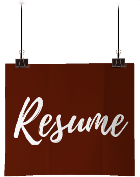
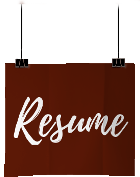
changed the posters and cleaned them

diff --git a/templates/portfolio.html b/templates/portfolio.html
@@ -74,9 +74,10 @@
                 </div>
 
                 </div>
+                <br />
                 <div class="row">
                     <div class="col-md-10 col-md-offset-1">
-                        <h1 class="fontheaders">Freel@nce</h1>
+                        <h1 class="fontheaders">Freel<a href="/contact" target="_blank">@</a>nce</h1>
                             <hr class="small">
                     </div>
                 </div>
@@ -85,7 +86,9 @@
                         <div class="portfolio-item">
                             <img class="img-portfolio img-responsive" src="static/img/divezone.png">
                             <div class="overlay" >
-                            <p class="portfolio-text">Dive Shop Website-Redesign</p>
+                            <p class="portfolio-text">Dive Shop <br />Website Redesign
+                                <h4 class="portfolio-glyph">y</h4>
+                            </p>
                             </div>
                         </div>
                     </div>
@@ -93,7 +96,9 @@
                         <div class="portfolio-item">
                             <img class="img-portfolio img-responsive" src="static/img/kcc.png">
                             <div class="overlay">
-                            <p class="maintext">E-Commerce Craft Site</p>
+                                <p class="portfolio-text">E-Commerce Crafting Site <br />
+                                    <h4 class="portfolio-glyph">y</h4>
+                                </p>
                             </div>
                         </div>
                     </div>

diff --git a/templates/about.html b/templates/about.html
@@ -44,10 +44,13 @@
                     <h1 class="fontheaders" id="aboutme">A Bit About Who I Am</h1>
                 <h1 class="glyph">y</h1>
                     <br />
+                    <div >
+
                     <p class="maintext"> Hi, I'm Kristine, a junior full-stack developer living in South East Houston. I was born and raised in Boston, MA, and I became an honorary Texan 6 years ago, according to the coffee mug I received. </p>
                     <p class="maintext"> Between programming and adulting, you will usually find me in my psuedo craft room (our dining room) making gifts for people. To me, crafting is a lot like programming; it can be a lot of stress but the end result and client satifsaction are what make it worthwhile. If I have any time left, you might find me out running (I try), reading, having wine with friends or even scuba diving. </p>
                     <p class="maintext">I'm a glass-half-full kind of gal, always looking at the positive side in life. Enough about me though, relax and have a look around. Any questions? Please reach out.  <i class="fa fa-heart" aria-hidden="true"></i>
                     </p>
+                    </div>
                 </div>
             </div>
         </div>

diff --git a/templates/index.html b/templates/index.html
@@ -36,21 +36,21 @@
                 <div class="col-lg-12">
                 <h1 class="fontheaders">Kristine O'Neil</h1>
                 <h1 class="glyph">y</h1>
+
+                    <ul id="cyclelist">
+                        <li>Developer</li>
+                        <li>Builder</li>
+                        <li>Back End-er</li>
+                        <li>Full Stack-er</li>
+                        <li>Problem Solver</li>
+                        <li>Front End-er</li>
+                        <li>Thinker</li>
+                    </ul>
+                
             </div>
         </div>
         <div class="row">
             <div class="col-lg-12">
-                    <div>
-                    <ul id="cyclelist">
-                    <li>Developer</li>
-                    <li>Builder</li>
-                    <li>Back End-er</li>
-                    <li>Full Stack-er</li>
-                    <li>Problem Solver</li>
-                    <li>Front End-er</li>
-                    <li>Thinker</li>
-                </ul>
-                    </div>
                 </div>
         </div>
         <br />

diff --git a/static/css/portfolio.css b/static/css/portfolio.css
@@ -153,7 +153,7 @@ ul#cyclelist {
 	width: 19.5%;
 	margin: auto;
 }
-ul#cyclelist li {
+#cyclelist li {
  text-align: center;
    list-style:none;
    font-size:1.4em;
@@ -183,7 +183,7 @@ hr.small {
     display: table-cell;
     text-align: center;
     vertical-align: middle;
-	color: #751721;
+	color: #5d1906;
 }
 .fontheaders {
 	margin: 0;
@@ -192,6 +192,11 @@ hr.small {
     font-family: Playlist-Script;
     font-size: 4.5em;
     font-weight: 700;
+}
+
+.fontheaders a {
+	text-decoration: none;
+	color: #5d1906;
 }
 
 .glyph {
@@ -268,6 +273,7 @@ hr.small {
 #portfolio, #contact h1 {
 	color:#5d1906;
 }
+
 
 
 /* Portfolio Page overlays   */
